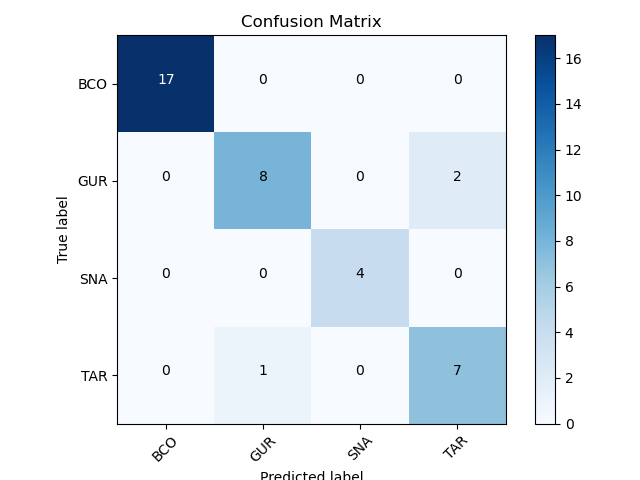
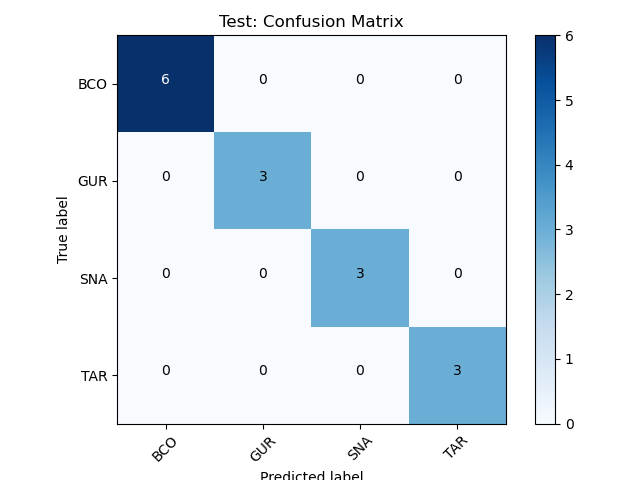
Confusion matrix for k-fold cross validation

diff --git a/code/cnn/Main.py b/code/cnn/Main.py
@@ -5,13 +5,13 @@ Main - main.py
 This is the main routine for the CNN model. 
 It trains a 1-dimensional convolutionary neural network on the fish oil data. 
 We perform the classification task using this model - it predicts the fish species or part. 
+This uses a Stratified K-Fold cross-validation (k = 10), so we can compare results to the other methods.
 """
 
 import numpy as np
 import tensorflow as tf
-from sklearn.model_selection import train_test_split
+from tqdm import tqdm
 from sklearn.model_selection import StratifiedKFold
-
 from .data import load, prepare, normalize, encode_labels
 from .cnn import get_model  
 from .plot import show_confusion_matrix, plot_loss, plot_accuracy
@@ -19,38 +19,32 @@ from .plot import show_confusion_matrix, plot_loss, plot_accuracy
 # Hyperparameters
 batch_size = 32
 epochs = 30
+k = 10
 
 # Dataset
 folder = "data/matlab/"
 datasets = ["Fish.mat","Part.mat"]
 dataset = datasets[0]
 print("Chosen: %s" % dataset)
-
 mat = load(dataset,folder=folder)
 X,y = prepare(mat)
 
 history = []
 
-skf = StratifiedKFold(n_splits=10, random_state=1234, shuffle=True)
-for train, test in skf.split(X, y):
+skf = StratifiedKFold(n_splits=k, random_state=1234, shuffle=True)
+for train, test in tqdm(skf.split(X, y)):
     X_train, X_test = normalize(X[train], X[test])
     X_train = np.expand_dims(X_train, axis=-1) # Batch axis (source: https://bit.ly/3yAF1J7)
-    X_test = np.expand_dims(X_test, axis=-1) # Batch axis (source: https://bit.ly/3yAF1J7)
+    X_test = np.expand_dims(X_test, axis=-1) 
     input_shape = (X_train.shape[1], X_train.shape[2])
-    # print(f"Input shape: {input_shape}")
     y_train, y_test, le = encode_labels(y[train], y[test])
-    class_names = le.inverse_transform(np.unique(y_train)).tolist()
-    # print(class_names)
     num_classes = len(np.unique(y_train))
     y_train = tf.keras.utils.to_categorical(y_train, num_classes=num_classes) # Convert labels to one-hot encoding.
-    y_test = tf.keras.utils.to_categorical(y_test, num_classes=num_classes) # Convert labels to one-hot encoding.
-    # X_train, X_val, y_train, y_val = train_test_split(X,y)
+    y_test = tf.keras.utils.to_categorical(y_test, num_classes=num_classes) 
     train_ds = tf.data.Dataset.from_tensor_slices((X_train,y_train)).shuffle(1000).batch(batch_size)
     val_ds = tf.data.Dataset.from_tensor_slices((X_test,y_test)).shuffle(1000).batch(batch_size)
     model = get_model(num_classes=num_classes)
-    history.append(model.fit(train_ds, validation_data=val_ds, epochs=epochs))
-
-print(f"History: {history[0].history}")
+    history.append(model.fit(train_ds, validation_data=val_ds, epochs=epochs, verbose=0))
 
 losses = [] 
 val_losses = [] 
@@ -83,4 +77,6 @@ for i in range(epochs):
 
 plot_accuracy(accuracies, val_accuracies)
 plot_loss(losses, val_losses)
-# show_confusion_matrix(X_val, y_val, model, labels=class_names)
+class_names = ["BCO","GUR","SNA","TAR"] # Hard-coded for now. # class_names = np.unique(y_train)
+show_confusion_matrix(X_train, y_train, model, labels=class_names, title="Train: Confusion Matrix")
+show_confusion_matrix(X_test, y_test, model, labels=class_names, title="Test: Confusion Matrix")

diff --git a/code/cnn/plot.py b/code/cnn/plot.py
@@ -11,7 +11,7 @@ import matplotlib.pyplot as plt
 import numpy as np
 import itertools
 
-def show_confusion_matrix(X_test, y_test, model, labels = ['BCO', 'GUR', 'SNA', 'TAR']):
+def show_confusion_matrix(X_test, y_test, model, labels = ['BCO', 'GUR', 'SNA', 'TAR'], title="Confusion Matrix"):
     """Shows the confusion matrix for the test data. 
 
     Args:
@@ -25,7 +25,7 @@ def show_confusion_matrix(X_test, y_test, model, labels = ['BCO', 'GUR', 'SNA', 
         y_pred = np.argmax(predictions, axis=-1)
     )
     cm_plot_labels = labels
-    plot_confusion_matrix(cm=cm, classes=cm_plot_labels, title='Confusion Matrix')
+    plot_confusion_matrix(cm=cm, classes=cm_plot_labels, title=title)
 
 def plot_confusion_matrix(cm, classes, title='Confsion matrix', cmap = plt.cm.Blues):
     """Plot a confusion matrix for a classification task.
